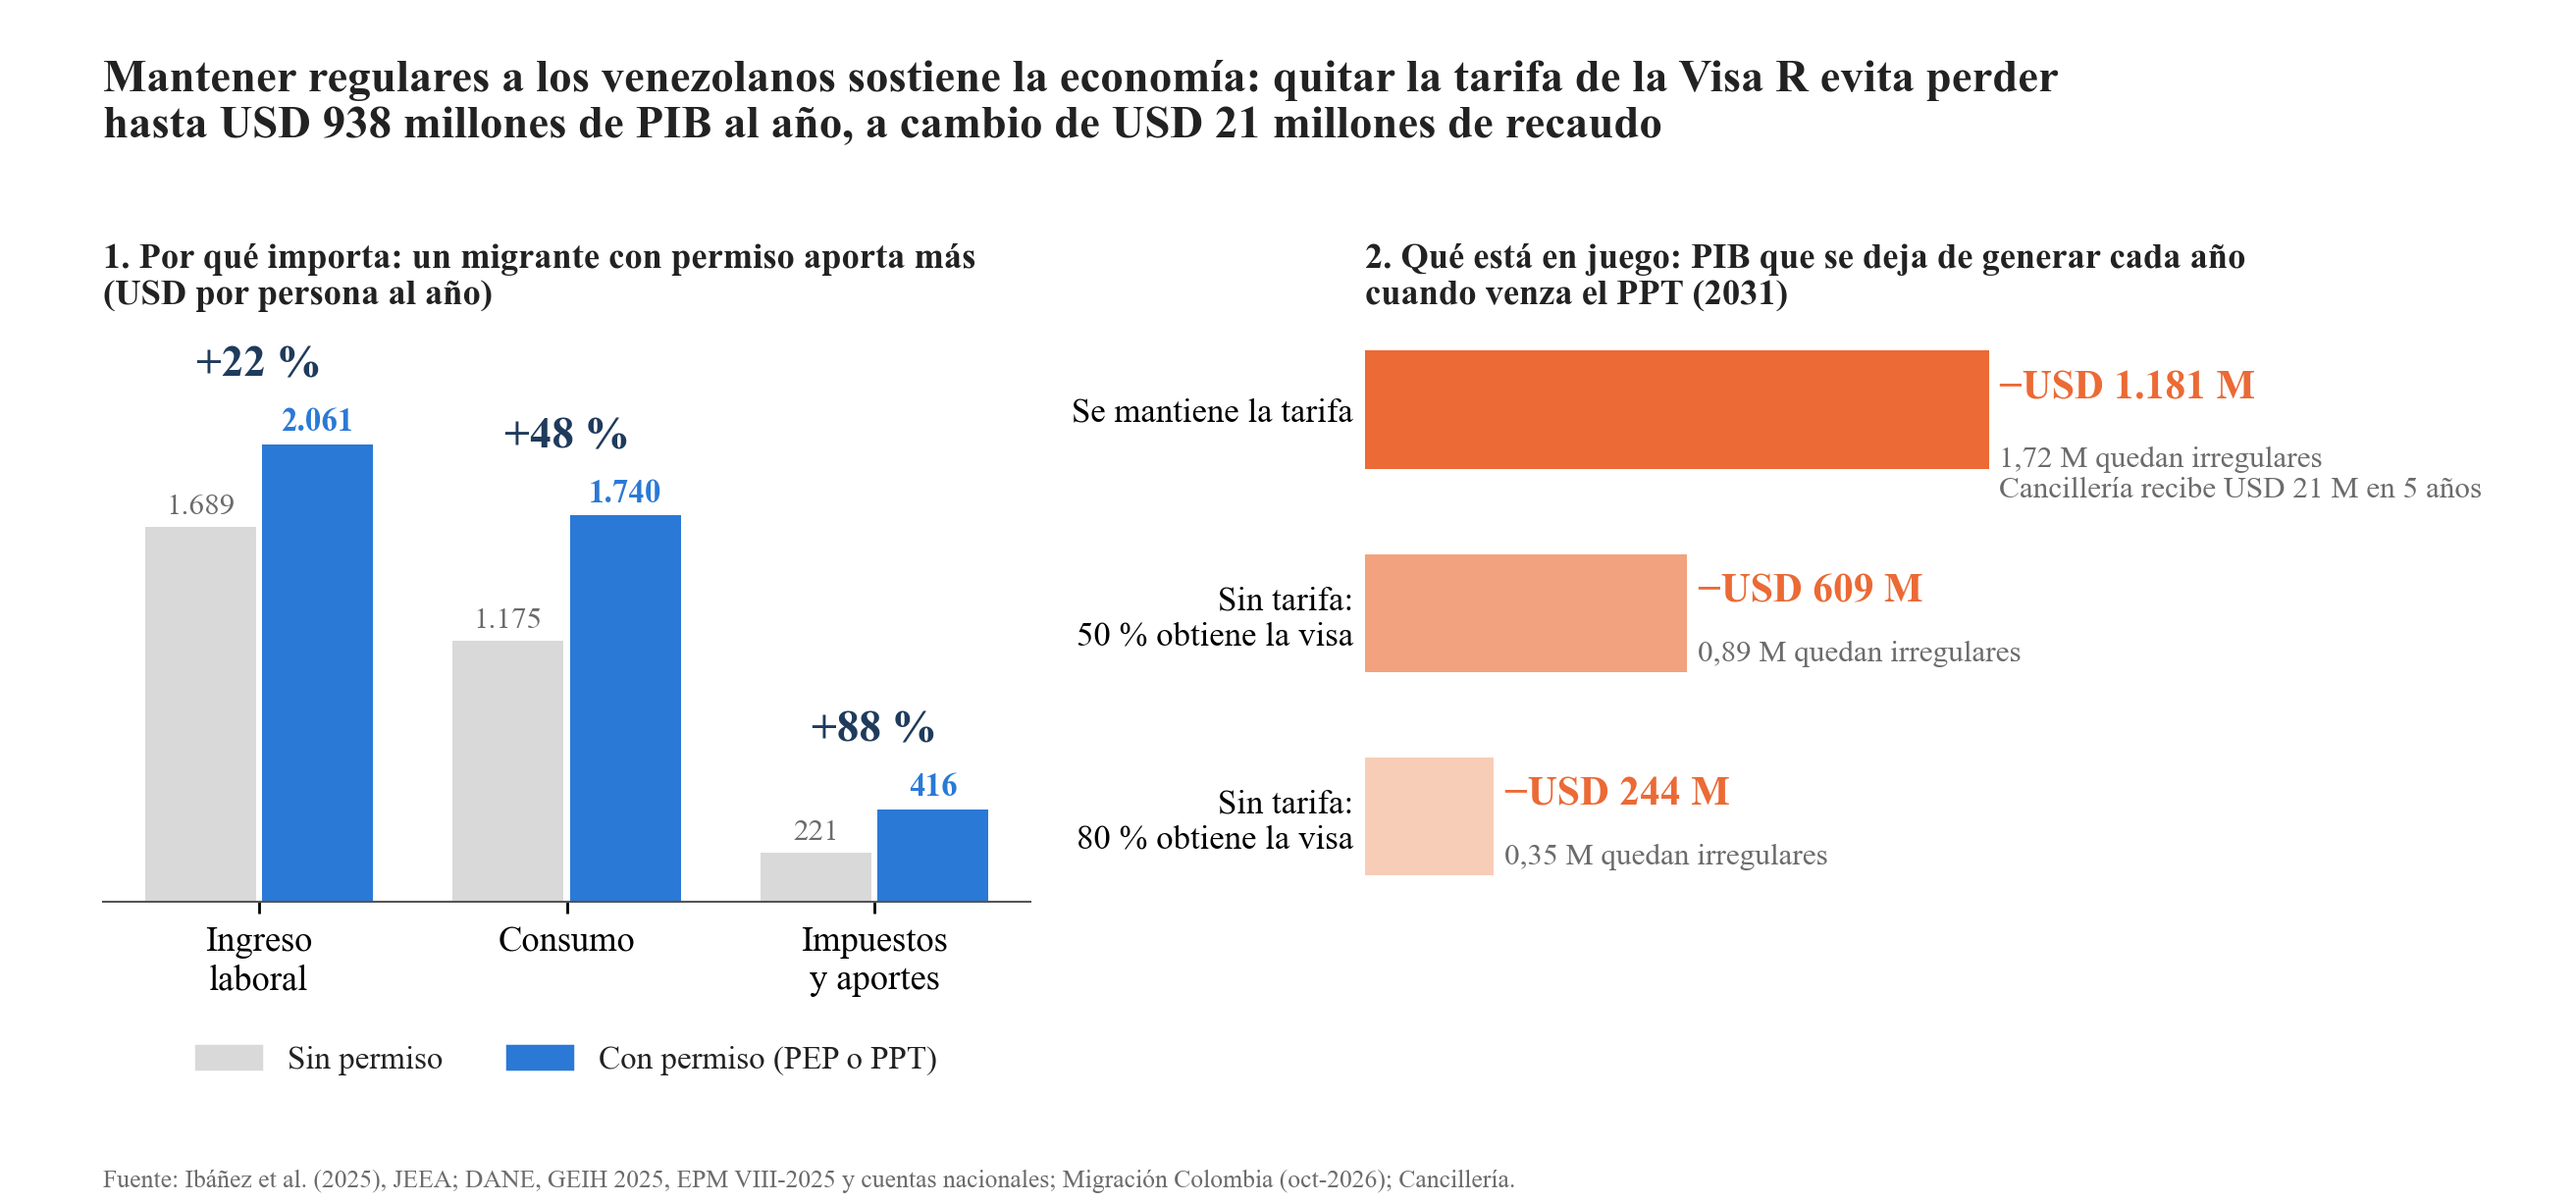
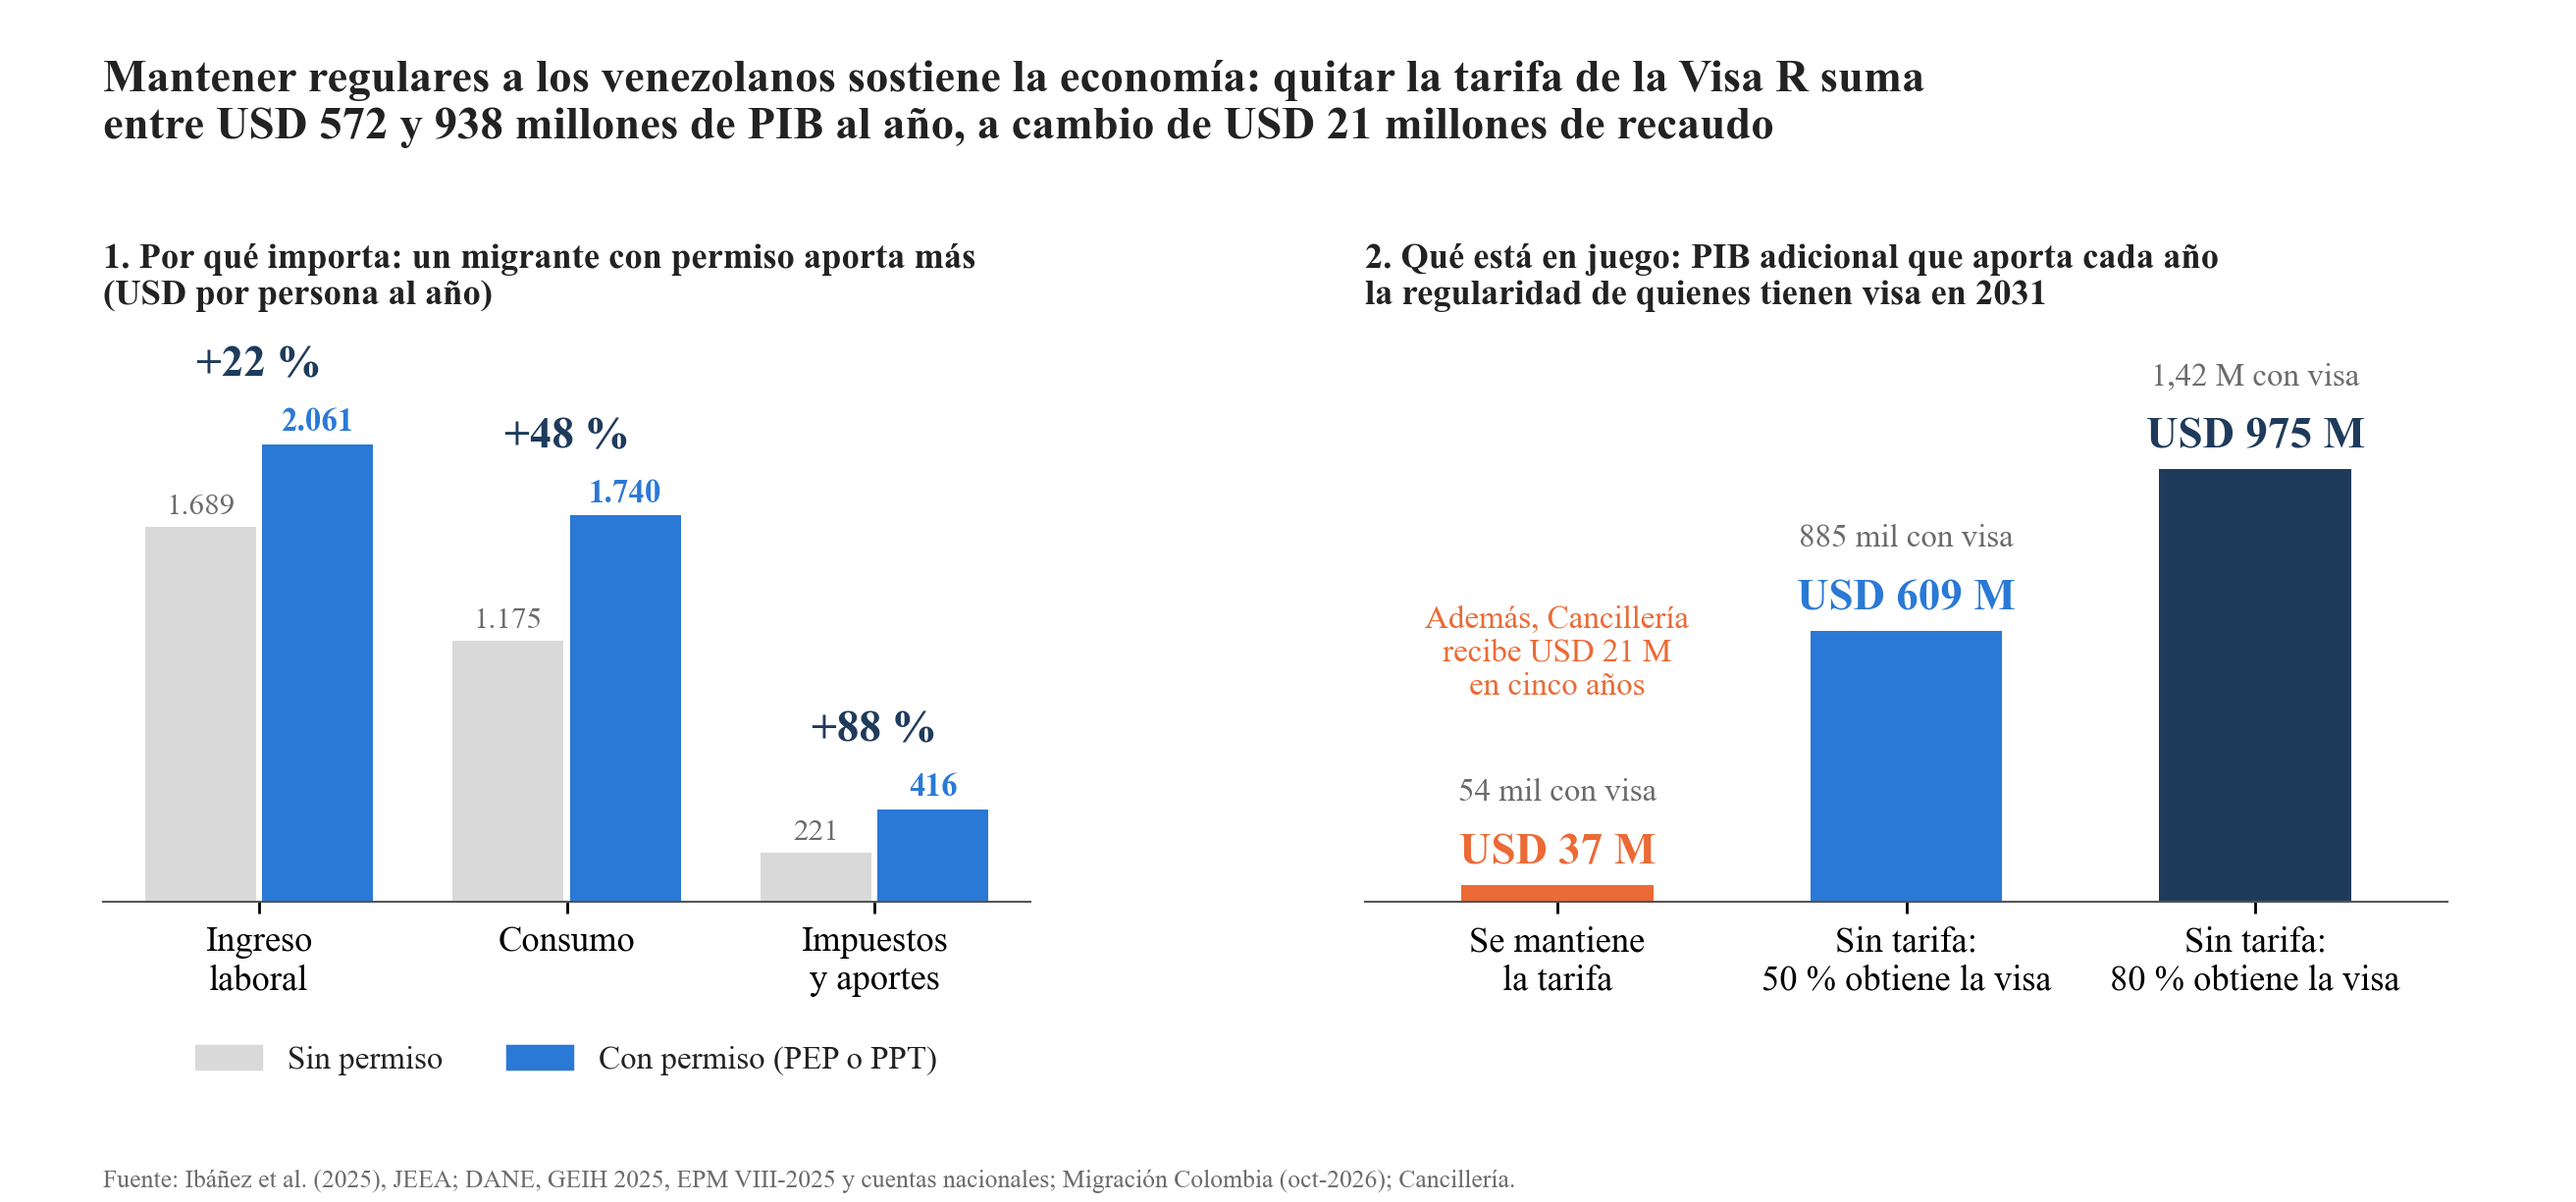
Panel derecho de la figura completa: PIB que aporta la regularidad por escenario

Changed region(s): [[0.4061, 0.1861, 0.9684, 0.8376], [0.0312, 0.0931, 0.6872, 0.1241], [0.6872, 0.062, 0.8122, 0.0931]]

diff --git a/Code/27_graficos_hilo.py b/Code/27_graficos_hilo.py
@@ -114,6 +114,7 @@ print("por persona USD: ingreso", round(usd(ing_irr)), round(usd(ing_reg)), "con
       "| beneficio 50/80 PIB", round(pib50 / 1e6), round(pib80 / 1e6), round(100 * pib50 / pib_usd, 3), round(100 * pib80 / pib_usd, 3))
 
 # =============================================================== D. toda la historia en una figura (dos paneles)
+mil_ = lambda v: (pc(v / 1e6) + ' M') if v >= 1e6 else (miles(v / 1e3) + ' mil')
 fig = plt.figure(figsize=(10.5, 4.9))
 gl = fig.add_axes([0.04, 0.25, 0.36, 0.48]); gr = fig.add_axes([0.53, 0.25, 0.42, 0.48])
 # panel izquierdo: por persona
@@ -127,18 +128,19 @@ gl.set_yticks([]); gl.spines["left"].set_visible(False); gl.set_ylim(0, 2600)
 gl.legend(handles=[plt.Rectangle((0, 0), 1, 1, color=LGRAY), plt.Rectangle((0, 0), 1, 1, color=BLUE)], labels=["Sin permiso", "Con permiso (PEP o PPT)"],
           loc="upper center", bbox_to_anchor=(0.5, -0.2), ncol=2, frameon=False, fontsize=9.5)
 gl.set_title("1. Por qué importa: un migrante con permiso aporta más" + NL + "(USD por persona al año)", loc="left", fontsize=10.5, fontweight="bold", color=INK)
-# panel derecho: PIB que se deja de generar al vencer el PPT
-sc = [("Se mantiene la tarifa", irreg_tarifa, ORANGE), ("Sin tarifa: 50 % obtiene la visa", BASE * 0.5, "#f2a27e"), ("Sin tarifa: 80 % obtiene la visa", BASE * 0.2, "#f8cdb8")]
-yy = np.array([2, 1, 0])
-for yi, (lab, irr, col) in zip(yy, sc):
-    v = irr * pib_pp / 1e6
-    gr.barh(yi, v, 0.58, color=col)
-    gr.text(v + 20, yi + 0.1, f"−USD {miles(v)} M", va="center", fontsize=12, fontweight="bold", color=ORANGE)
-    gr.text(v + 20, yi - (0.32 if yi == 2 else 0.2), f"{pc(irr / 1e6)} M quedan irregulares" + (NL + "Cancillería recibe USD 21 M en 5 años" if yi == 2 else ""), va="center", fontsize=9, color=GRAY)
-gr.set_yticks(yy); gr.set_yticklabels([s_[0].replace(": ", ":" + NL) for s_ in sc], fontsize=10)
-gr.tick_params(axis="y", length=0); gr.set_xticks([]); gr.spines["left"].set_visible(False); gr.spines["bottom"].set_visible(False); gr.set_xlim(0, 2050)
-gr.set_title("2. Qué está en juego: PIB que se deja de generar cada año" + NL + "cuando venza el PPT (2031)", loc="left", fontsize=10.5, fontweight="bold", color=INK)
-fig.text(0.04, 0.95, "Mantener regulares a los venezolanos sostiene la economía: quitar la tarifa de la Visa R evita perder" + NL +
-         "hasta USD 938 millones de PIB al año, a cambio de USD 21 millones de recaudo", fontsize=13.5, fontweight="bold", ha="left", va="top")
+# panel derecho: PIB que aporta la regularidad de quienes tienen visa en 2031
+sc = [("Se mantiene" + NL + "la tarifa", CON_TARIFA, ORANGE), ("Sin tarifa:" + NL + "50 % obtiene la visa", 0.5 * BASE, BLUE), ("Sin tarifa:" + NL + "80 % obtiene la visa", 0.8 * BASE, NAVY)]
+xs_ = np.arange(3)
+for xi, (lab, con_, col) in zip(xs_, sc):
+    v = con_ * pib_pp / 1e6
+    gr.bar(xi, v, 0.55, color=col)
+    gr.text(xi, v + 25, f"USD {miles(v)} M", ha="center", va="bottom", fontsize=13, fontweight="bold", color=col)
+    gr.text(xi, v + 175, f"{mil_(con_)} con visa", ha="center", va="bottom", fontsize=9.5, color=GRAY)
+gr.set_xticks(xs_); gr.set_xticklabels([s_[0] for s_ in sc], fontsize=10.5)
+gr.set_yticks([]); gr.spines["left"].set_visible(False); gr.set_ylim(0, 1300); gr.set_xlim(-0.55, 2.55)
+gr.text(0, 560, "Además, Cancillería" + NL + "recibe USD 21 M" + NL + "en cinco años", ha="center", va="center", fontsize=9.5, color=ORANGE)
+gr.set_title("2. Qué está en juego: PIB adicional que aporta cada año" + NL + "la regularidad de quienes tienen visa en 2031", loc="left", fontsize=10.5, fontweight="bold", color=INK)
+fig.text(0.04, 0.95, "Mantener regulares a los venezolanos sostiene la economía: quitar la tarifa de la Visa R suma" + NL +
+         f"entre USD {miles(esc['50 %'] * pib_pp / 1e6)} y {miles(esc['80 %'] * pib_pp / 1e6)} millones de PIB al año, a cambio de USD 21 millones de recaudo", fontsize=13.5, fontweight="bold", ha="left", va="top")
 fig.text(0.04, 0.012, FUENTE, fontsize=7.4, color=GRAY, ha="left")
 fig.savefig(FIG / "pr13_historia_completa.png", dpi=250, facecolor="white"); plt.close(fig)
